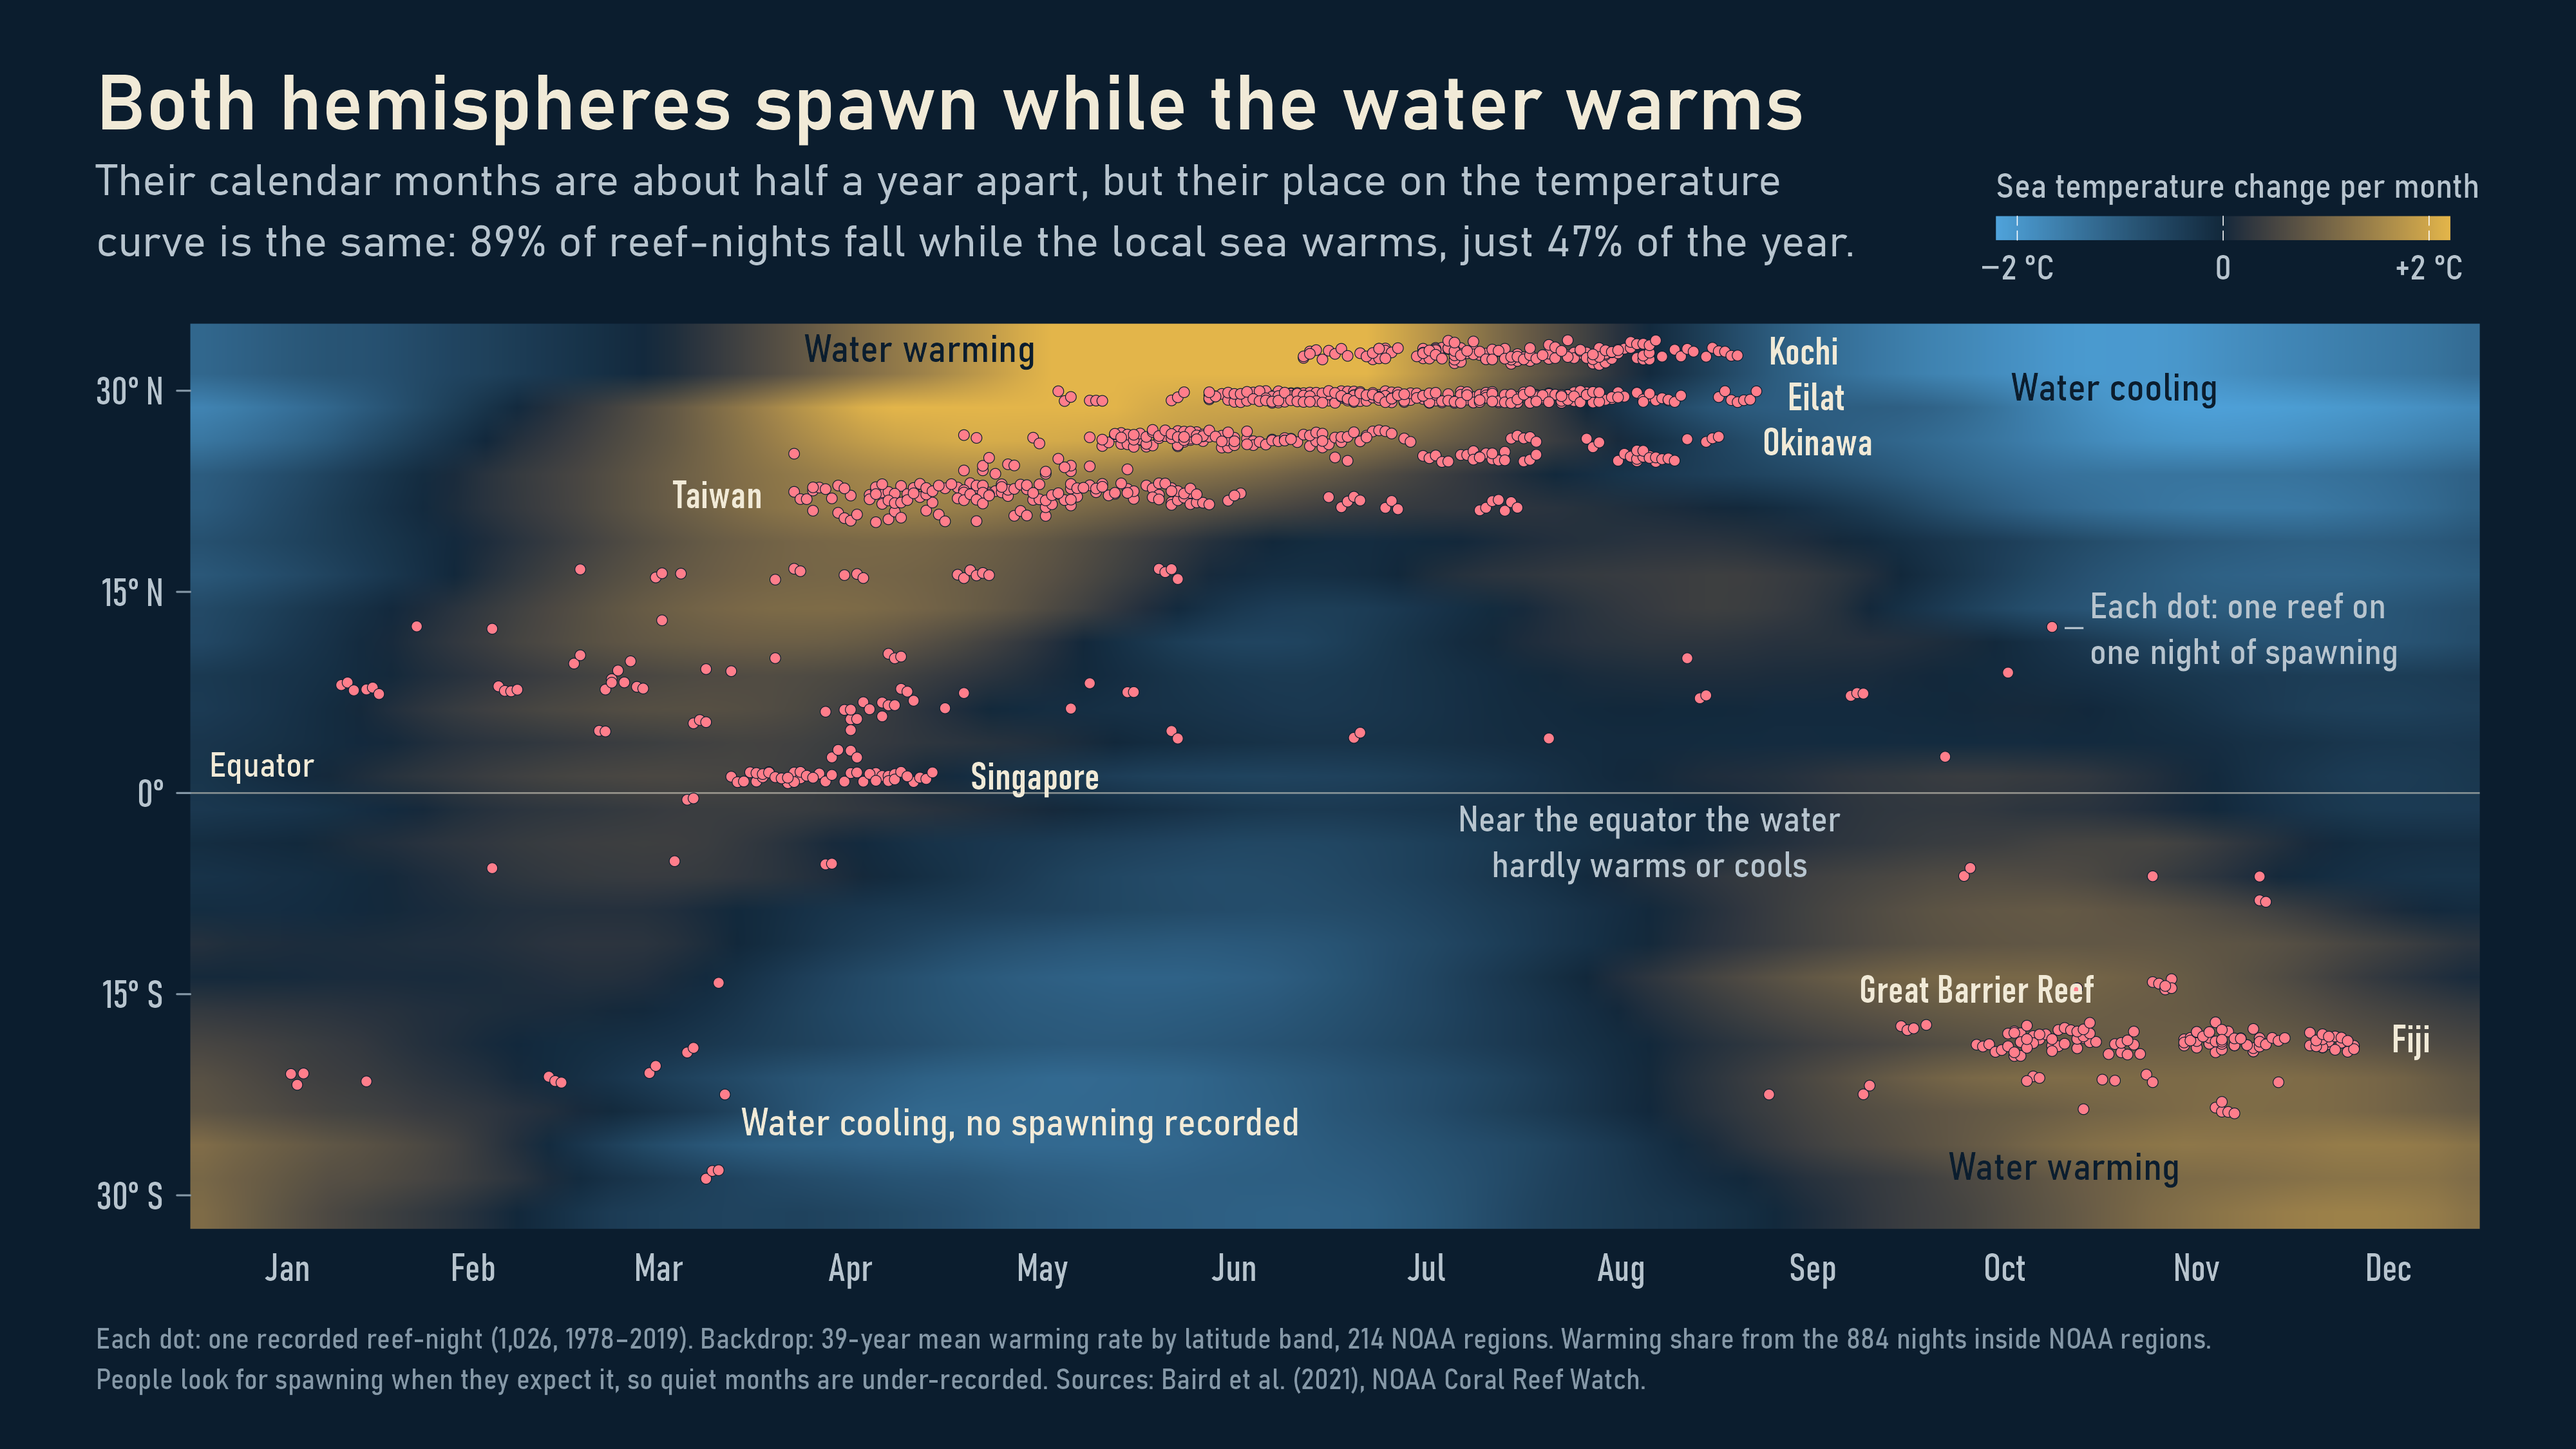
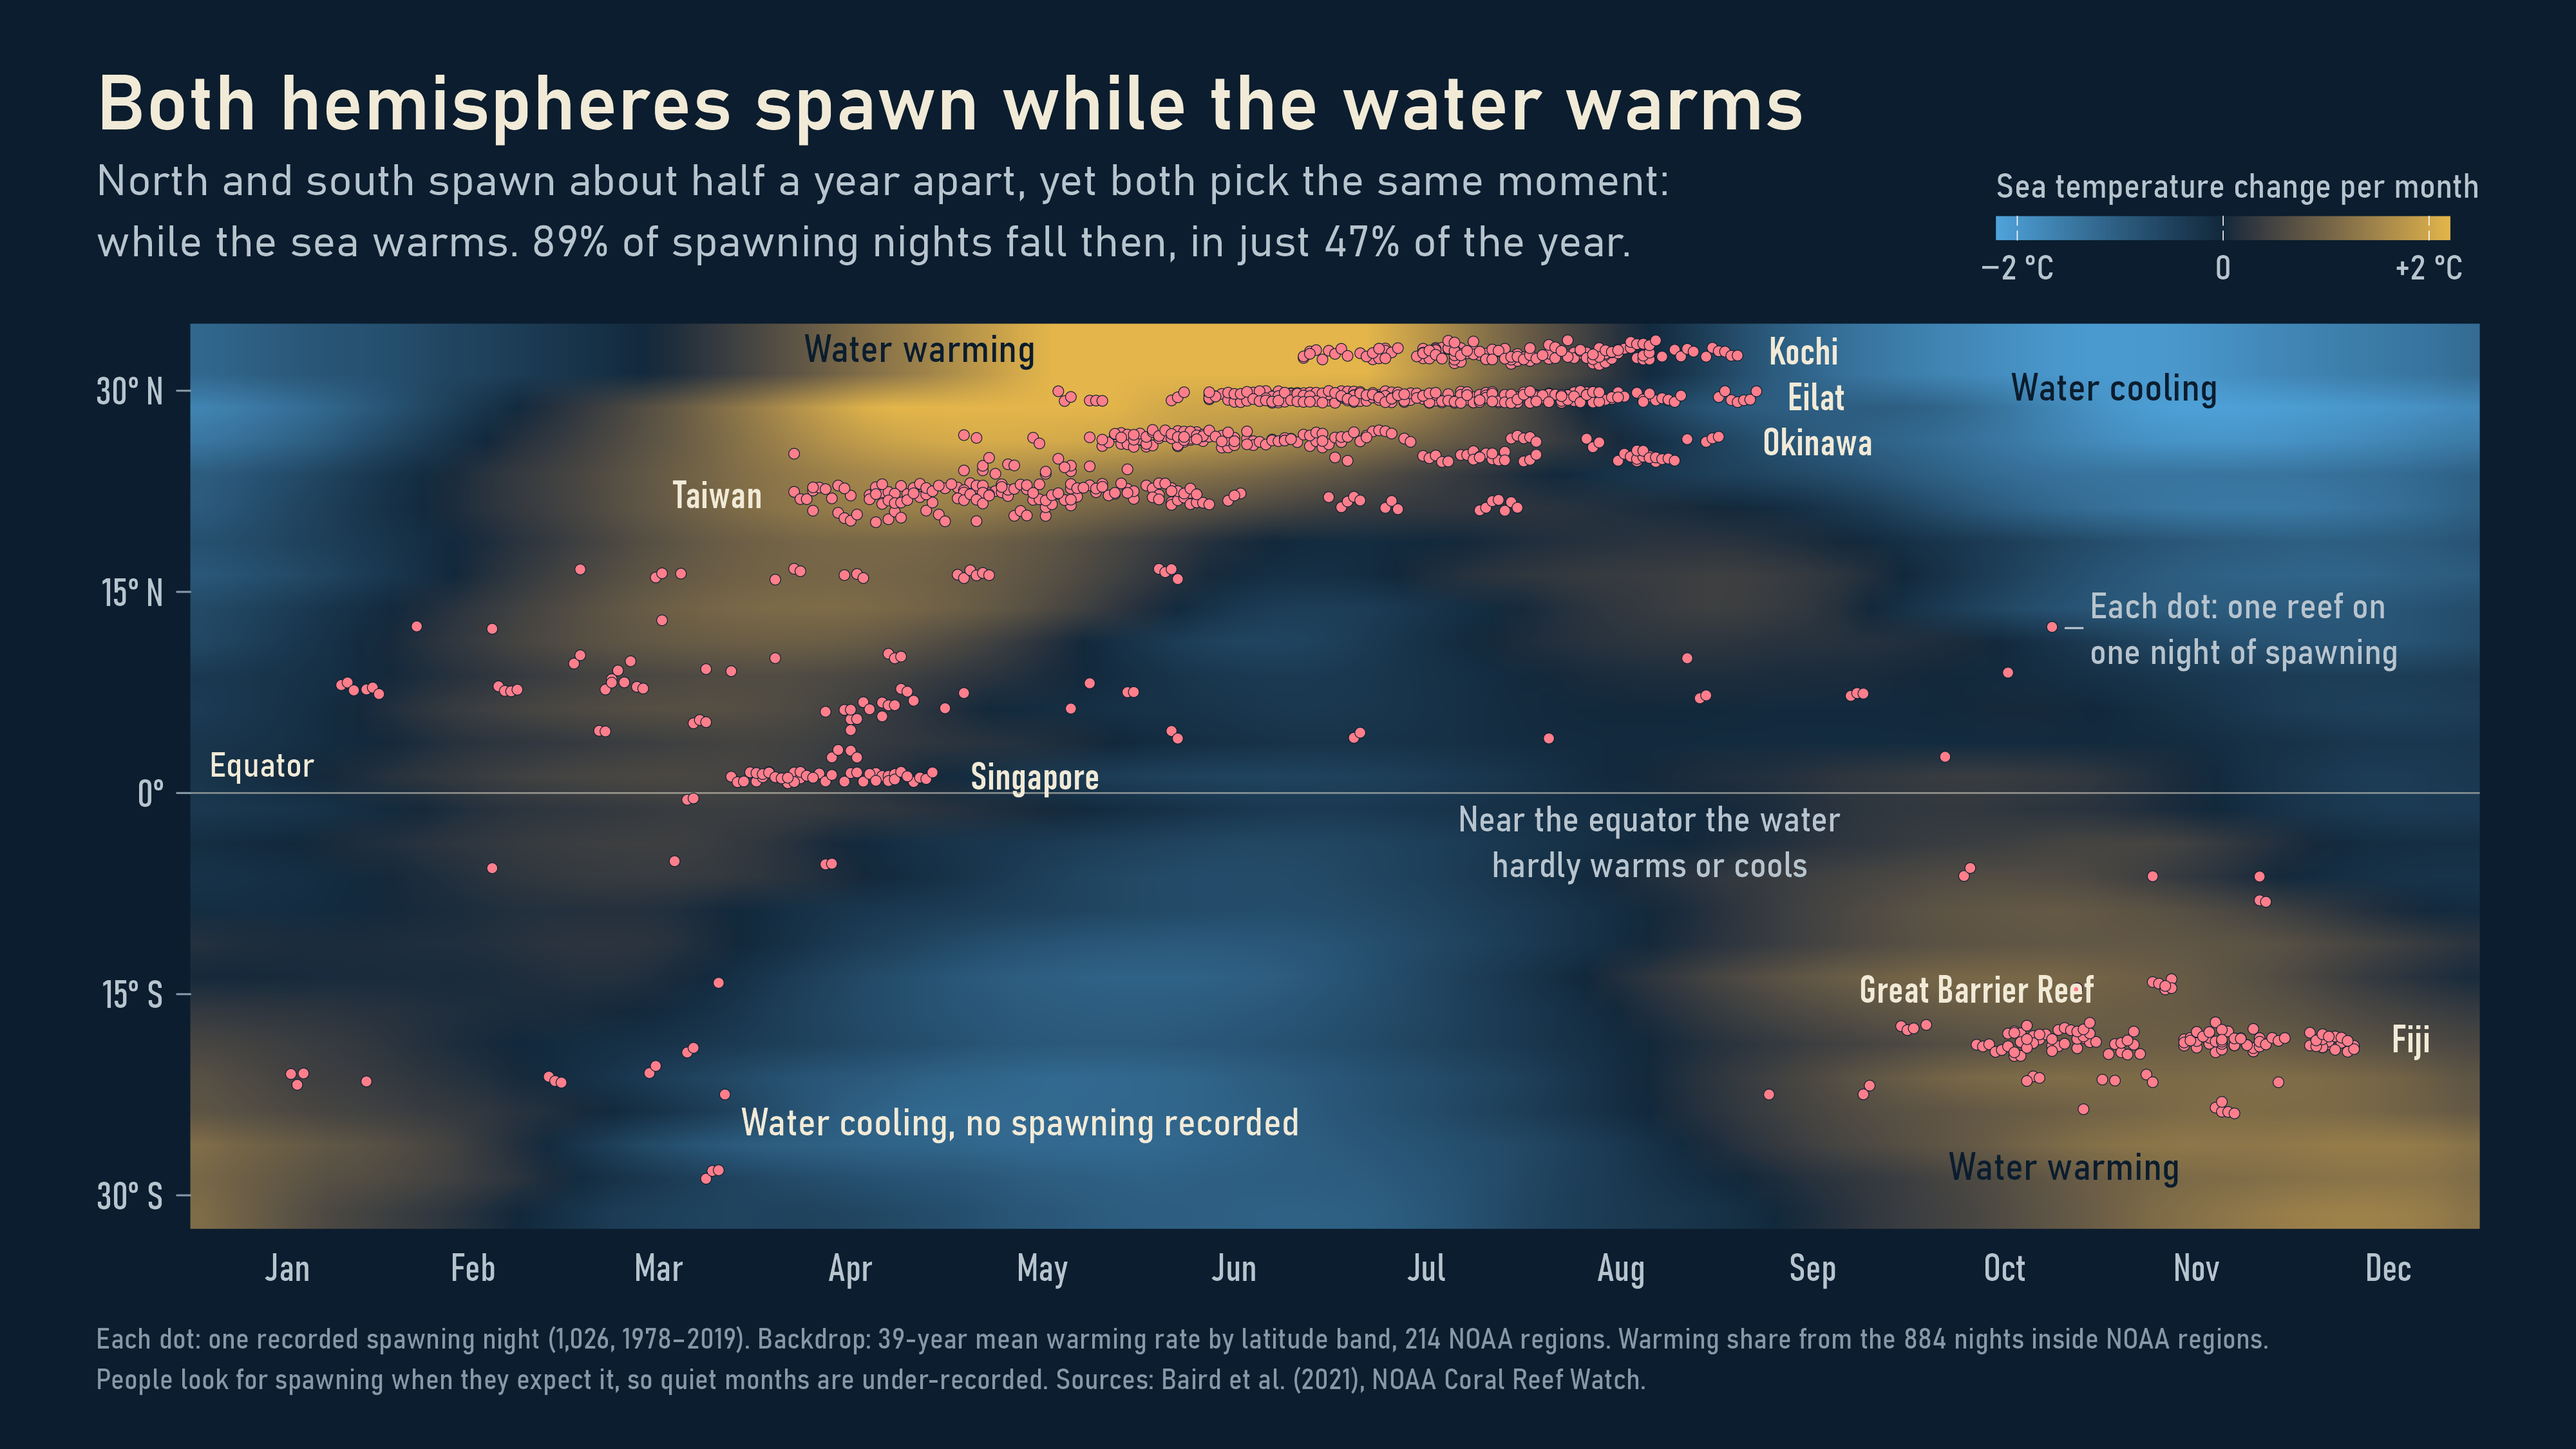
refactor: simplify the plot subtitles
Same facts in easier words, with the same number of lines so nothing shifts.
On the plots, reef-night now reads spawning night. Titles are unchanged.

Changed region(s): [[0.0312, 0.0933, 0.7188, 0.1867], [0.1562, 0.9022, 0.875, 0.9333]]

diff --git a/docs/PLOT_GUIDE.md b/docs/PLOT_GUIDE.md
@@ -70,4 +70,4 @@ Ten of fourteen regions rose, and four stayed clear. This measures overlap only.
 
 ## Words you may need
 
-A reef-night is one reef subsite on one local date, however many species were recorded there. Tightness runs from 0 (spread evenly around the cycle) to 1 (everything at one moment). Degree heating weeks add up how far and how long the water stayed above its usual summer maximum over the last twelve weeks. The Brier error is the average squared gap between a predicted chance and what happened, so lower is better.
+A reef-night, called a spawning night on the plots, is one reef subsite on one local date, however many species were recorded there. Tightness runs from 0 (spread evenly around the cycle) to 1 (everything at one moment). Degree heating weeks add up how far and how long the water stayed above its usual summer maximum over the last twelve weeks. The Brier error is the average squared gap between a predicted chance and what happened, so lower is better.
